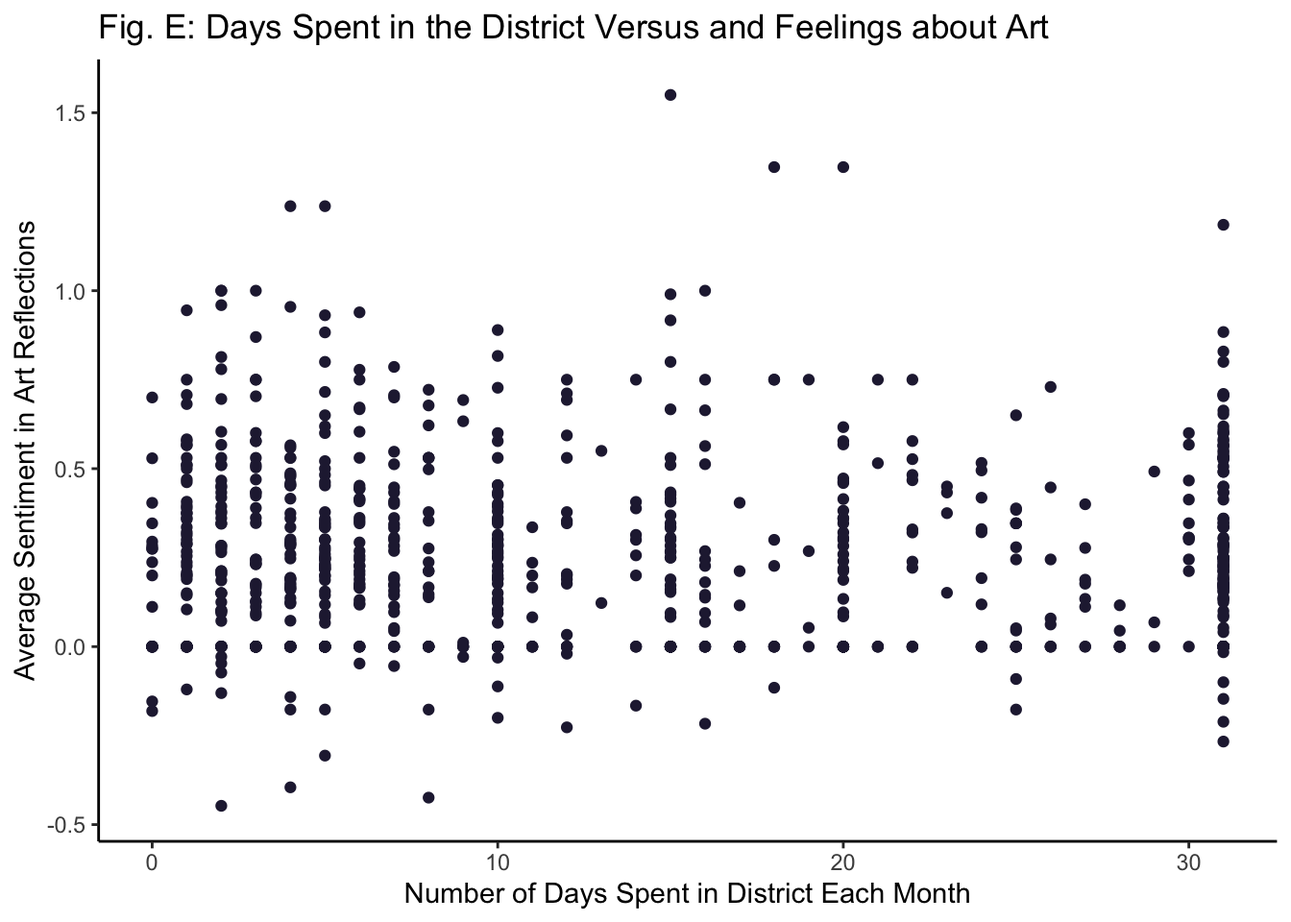
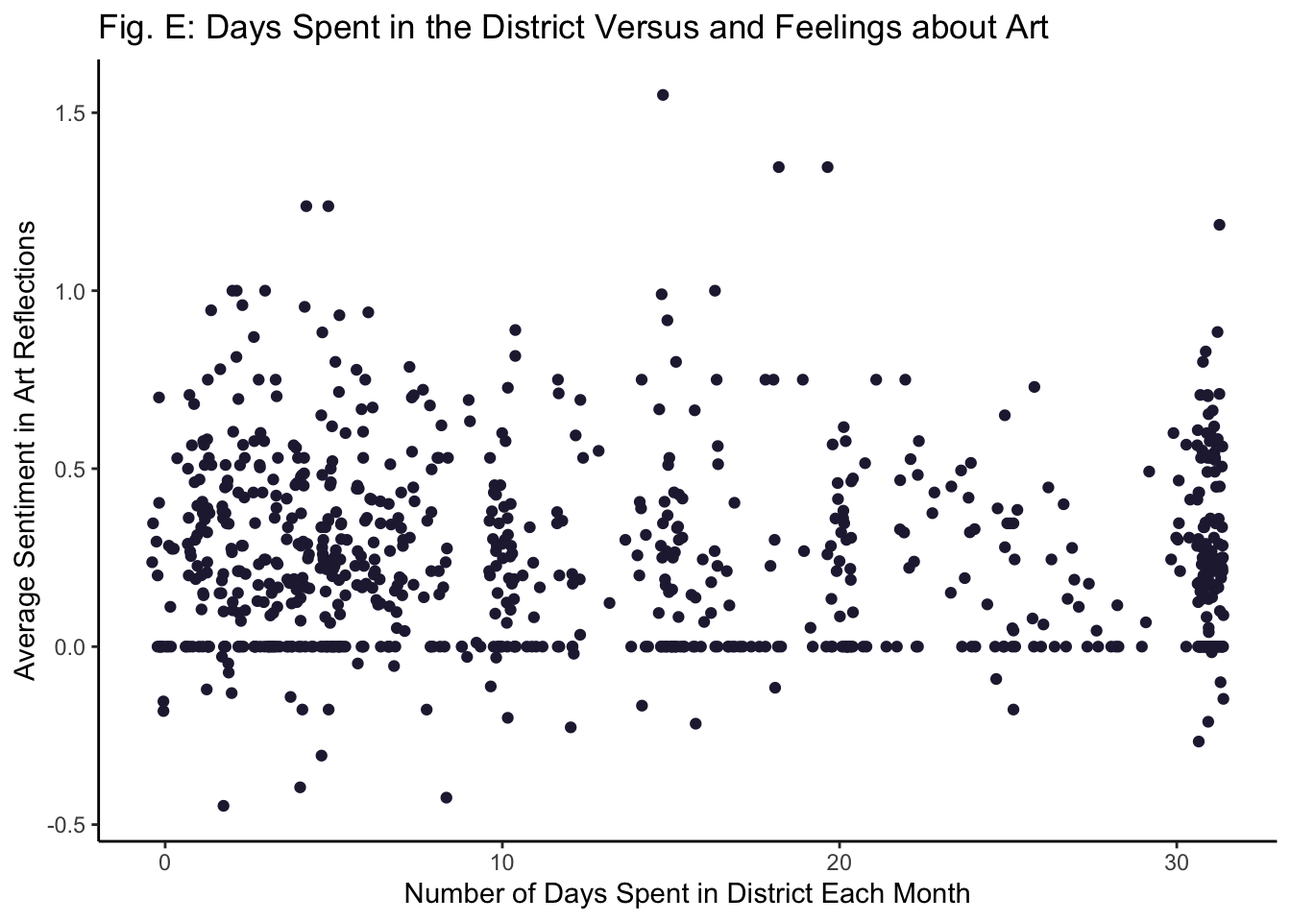
update website

diff --git a/docs/rrad_portfolio.html b/docs/rrad_portfolio.html
@@ -454,11 +454,12 @@ $(document).ready(function () {
 <span id="cb10-3"><a href="#cb10-3" aria-hidden="true" tabindex="-1"></a>  <span class="fu">theme_classic</span>() <span class="sc">+</span></span>
 <span id="cb10-4"><a href="#cb10-4" aria-hidden="true" tabindex="-1"></a>  <span class="fu">labs</span>(<span class="at">x =</span> <span class="st">&quot;Days Spent in the District&quot;</span>, <span class="at">y =</span> <span class="st">&quot;Number of Respondents&quot;</span>, <span class="at">title =</span> <span class="st">&quot;Fig. A: Days Spent in the District Each Month (N = 1081)&quot;</span>)</span></code></pre></div>
 <p><img src="rrad_portfolio_files/figure-html/unnamed-chunk-8-1.png" width="672" /></p>
-<p><em>Note: may need to transform due to non-normal distribution</em></p>
+<p><em>Majority of people spend less than 10 days in the district, however a substantial amount also spend every day in the district (these are likely the residents in the sample).</em></p>
 <p><br></p>
 <p><strong>Fig. B: What is Art to You? (n = 808)</strong></p>
-<div id="htmlwidget-b3c4ef9d3d10f5e39467" style="width:672px;height:480px;" class="wordcloud2 html-widget"></div>
-<script type="application/json" data-for="htmlwidget-b3c4ef9d3d10f5e39467">{"x":{"word":["art","expression","anything","creative","something","life","can","experience","way","created","community","form","creativity","self","makes","emotion","express","visual","music","human","someone","think","world","feel","culture","everything","create","people","artist","etc","murals","others","personal","’s","one","emotions","see","beauty","creation","thought","painting","like","beautiful","things","feeling","unique","person","medium","make","emotional","many","made","physical","forms","love","brings","different","creating","ideas","just","experiences","good","feelings","thoughts","senses","new","imagination","soul","whether","together","shared","public","live","allows","dance","sculpture","artists","mind","individual","tangible","mediums","means","another","passion","performance","communication","sense","part","paintings","media","variety","idea","subjective","connect","ones","skill","connection","also","cultural","enjoy","time","ability","words","around","important","work","creates","place","everyone","expressed","opportunity","enjoyment","shows","theater","provides","food","photography","arts","performing","whatever","communicate","aesthetic","ways","body","comes","kind","without","expressions","evokes","talent","building","word","representation","humanity","freedom","response","expressing","bring","joy","thing","perspective","either","making","much","definition","oneself","reflection","define","looking","someones","value","first","stop","design","roosevelt","gives","process","happiness","interpretation","eyes","expresses","spoken","space","craft","inspires","selfexpression","heart","existence","seen","meant","moves","reaction","speak","helps","thinking","typically","works","piece","act","nothing","meaning","viewer","group","artistic","architecture","don’t","seeing","friday","sound","view","designed","purpose","vision","anyone","really","including","audience","show","necessary","jewelry","various","provoking","relax","experienced","hear","story","creatively","answer","goes","now","mundane","paint","need","use","depth","invokes","interesting","fashion","humans","outlet","mental","evoke","perfect","may","essential","happy","bad","want","lot","engaging","opportunities","escape","everyday","creations","broad","pleasure","touch","drawing","speaks","moment","done","invoke","home","spaces","look","sensory","visually","poetry","diverse","intended","inspiration","beliefs","defined","action","language","always","question","well","manifestation","put","beyond","manifested","objects","needs","right","speaking","spirit","explore","appreciation","within","add","color","give","dancing","items","used","power","’m","sparks","able","challenges","surroundings","therapy","interest","stirs","else","expressive","fine","watercolor","exploration","statements","boundaries","entire","behind","take","inner","call","special","work’","free","going","high","local","especially","eclectic","understand","creator","statement","relate","film","includes","connects","definitely","mural","phoenix","eye","enjoying","types","row","pleasing","takes","inside","inspire","groups","differently","chance","stories","vulnerability","nice","beer","cocktails","minds","sharing","buy","emotionally","auditory","conversation","exists","galleries","entertaining","concept","consumption","intention","sort","level","sculpting","events","entertainment","communities","know","intent","reality","can’t","reflect","social","truly","imagery","clothes","personally","smile","stimulates","one’s","individuals","exchange","impact","abstract","change","universal","lives","since","provocative","engagement","growth","almost","intellectual","treasure","sustenance","material","nature","someone’s","capitalism","injustices","racism","true","will","affects","musical","written","sacred","provide","interests","appreciated","existing","challenging","spark","alone","dialogue","category","extension","highly","relatable","belonging","collaborative","deeper","interact","character","consciousness","however","paper","limits","stimulate","crap","decay","water","long","context","discussion","outward","attention","book","contributes","distinction","honest","proposal","thoughtprovoking","‘work’","learning","away","buying","favorite","festivals","method","lifestyle","stimulation","elses","movement","great","invites","culinary","artifacts","become","uses","development","celebration","consumed","importantly","meaningless","sculptures","traditional","usually","belief","politics","holiness","taste","back","exhibits","gardens","parks","reflects","taken","ears","consideration","sees","identity","idealized","personality","experiencing","overall","concerts","meet","painters","park","sale","street","venues","combined","city","promote","following","bringing","drawings","happenings","outside","prints","enriches","admire","vibes","installations","type","beholder","audio","physically","intriguing","collectively","accessible","inspired","describes","endeavors","contemporary","aesthetics","passions","performances","pieces","provoke","present","short","ever","issues","appreciate","’re","interpret","wrong","cultures","else’s","individual’s","engage","observer","sewing","enhances","history","upon","tap","individuality","provokes","survey","viewpoints","crafts","perception","hands","explain","wonder","folks","mentally","experiential","pretty","livelihood","communicates","spiritual","exist","still","economic","quality","topic","please","displays","lol","persons","goods","message","believe","graffiti","changes","bar","places","small","solely","specific","stress","condition","wants","technique","breadth","economy","restaurants","big","society","though","try","clothing","livens","waves","job","catalyst","concepts","conduit","empathy","sensitivity","argue","changing","constantly","difficult","evolving","colors","impossible","seem","stimulating","minded","impart","life’s","certain","trigger","zeitgeist","perceive","based","photos","america","apart","basquiats","continue","diaz","doc","feelingsemotionsstrugglesexperiences","focused","goal","late","loudly","misogyny","obligation","oppression","real","safe","said","spend","strife","tear","teen","times","voice","years","forgotten","expands","collaboration","deep","knowing","projects","enrich","visuals","old","recycling","application","focus","hope","primarily","producing","build","strong","previously","career","second","cave","respite","represent","beautifies","deeply","pleasant","notice","willing","collective","god","gods","humanitys","pleases","allowed","masses","goodwill","moving","offering","completely","describe","aspect","awareness","bearable","elevates","enables","evolution","expansive","perspectives","potential","raise","shift","acrylic","botanicals","adventure","excited","exploring","imagine","offers","main","occupation","read","richness","aquarium","basketballs","disgust","epitomy","floating","full","half","ideally","longwinded","nostril","powerful","races","reason","seriously","snapshot","talented","three","tired","whole","wld","audibly","profession","togetherness","dialog","induce","communicating","modality","appropriately","better","breathtaking","care","dated","deserves","deserving","discard","encourages","extraordinary","fact","glaser","inception","inundated","landscape","milton","modest","name","poster","pushes","remains","replace","rug","say","sidewalk","simple","stencil","title","ugly","unfortunately","zero","‘art’","‘bad","‘good","‘great","conditionexperience","activity","innovative","consign","network","participate","cathartic","accept","ceramic","failures","greatness","growing","highest","joys","everyone’s","exhibitsmuseumsgalleriesconcerts","female","methods","potteryfilmmusic","preferred","school","walked","went","projected","adventures","immerse","patterns","digesting","finding","views","visualized","encores","stimuli","struggle","boring","best","points","amazement","gifts","beautify","income","presented","simply","thoughtfulness","decent","probably","examine","influence","artwork","basic","discovery","manifests","principles","suitable","alley","ambience","drink","location","restaurantbar","served","walls","consumes","easel","films","games","kept","participation","plays","video","emotionality","collect","hiking","passionate","happened","intentional","beautification","sensual","capable","creatives","installation","visible","feels","memory","candy","grant","promoting","watching","writing","talents","artsmusic","teacher","theatre","elicits","inspiring","euphoric","stepping","desire","actions","elicit","intentionally","open","performedcomposeddeveloped","authentic","thinks","iife","purposes","sometimes","aesthetically","communal","enjoyed","conveyed","matter","viewerparticipant","little","showcases","contemplate","experimental","dives","five","loud","measure","triggers","interactivity","verb","figure","replication","strengths","trying","weaknesses","merry","stay","tension","available","blowing","classes","displaying","fairs","glass","meetups","onsite","outdoor","rent","rooms","sawdust","studio","studios","tours","“checkout”","lived","result","lifeblood","reactions","involvement","private","utilizing","constraints","art—paintings","association","collages","dances","indulging","insides","photographs","poems","songs","trust","outsider","pushing","relations","religion","encompassing","muralsstreet","terms","anothers","personarea","uniqueness","cosmos","showing","knitting","stitching","doesn’t","metaphorically","individually","addition","fixed","beaded","musically","appeal","graphic","installed","sorts","garbage","imho","pretentious","weathered","mostly","break","norm","desires","external","internal","buildings","sides","broadest","creationmaking","critical","lead","selfreflection","dazzles","applies","future","gripping","past","representative","wildly","transports","evidence","natural","mode","lens","person’s","huge","putting","final","product","appealing","personalized","varying","observeconsumeenjoy","cool","corporate","“person”","ads","curated","landscaping","light","metro’s","obvious","rail","valley","wraps","attractive","critiques","heal","ponder","questions","engages","honestly","grounds","photograph","wether","conceptions","puts","education","multiculturalism","invention","item","enjoyable","monetary","require","transaction","output","values","play","effort","repetition","practice","intersection","object","viewersparticipants","discover","mission","southwest","skills","coming","sight","muralspaintings","aligned","prefer","simplify","concert","interactive","peoples","connections","educate","hopefully","inform","depend","redefine","voices","content","teaches","communicative","non","acting","infusing","might","numbers","original","realize","“art","comedy","aspirations","channelling","odd","resonate","commodity","format","production","multiple","embrace","knowledge","streets","whispers","bookmaking","circus","literary","print","storytelling","zines","“art”","encultured","equally","extent","parts","meets","draws","pour","floor","mail","thrown","environment","temperament","pointing","symbols","plane","portraying","sensations","spirits","displayed","mindfully","sake","fulfilling","motivates","articles","homemade","abstractions","smell","reacts","censorship","minus","include","persuasion","activities","artworks","author’s","engaged","imaginative","performed","range","technical","museums","artlink","arts”","borders","fulfill","function","maybe","move","palatable","popular","promoted","studiofine","thru","uncomfortable","wall","“","“instagrammable”","“pretty”","test","withstood","networking","appreciating","choice","additional","adds","placed","teaching","tend","therapeutic","fully","propels","components","comprised","factors","historical","informed","felt","sensation","six","transformed","shares","decoration","dimension","fantastic","scupture","consumer","feeds","least","prove","reverence","spiritually","strength","actually","deliberately","desert","exhibition","grouping","happens","irrelevant","museum","path","rocks","side","deem","expensive","interested","mean","preservingsaving","valuable","worth","pause","strongly","subject","commercial","common","firms","homes","evoking","visceral","yet","surprising","flowing","fuel","keep","cloned","touches","state","discussed","grabs","heck","colorful","seasoning","causes","admiring","inventive","theatrical","vehicle","force","messaging","communicationetc","solid","members","money","pornography","staring","conveys","awe","intangible","produce","erase","let’s","welcome","mindset","magic","justice","guest","reading","speakers","talking","current","designs","stale","across","limitless","day","everywhere","found","throughout","apartment","chooses","corner","happen","installs","longer","pushed","salon","already","area","displace","families","gentrifying","increase","neighborhoods","rents","respecting","businesses","supporting","hobbies","cheap","condos","dollar","flooded","market","relieve","get","pace","regulate","point","analysis","political","daily","savor","showcase","participant","atmosphere","awesome","hearing","comport","intellect","causing","motion","emotive","head","viewers","routine","consumerviewer","pov","center","detroit","grew","verbal","skillset","masse","promotes","dewey’s","theory","ecosystems","godhead","man","premiere","revealed","urban","influences","explores","surrounds","convey","monetarily","exposing","extraction","innermost","stuff","yknow","visualauditorysensory","bars","dynamic","mid","replaced","services","shops","supports","observers","inspirational","among","fit","friends","often","therefore","general","numerous","vibe","fingernails","matters","flowers","trees","deemed","dancepainting","sculpturesmusicfilms","freeing","inward","even","thoughtsfeelings","connecting","tissue","watch","companies","locals","nonlarge","posters","meaningful","case","cases","access","ask","everyones","example","immersive","key","liked","never","manner","purposeful","holds","significant","share","via","today","combination","given","instruments","interpretations","lyrical","materials","uplifting","formats","respectfully","infinite","nearly","taking","viewpoint","threw","oversized","plants","“potted”","fun","bonds","spread","higher","intellectually","simulates","assholes","bunch","entitled","night","walking","challenge","constructed","reconstructed","support","telling","college","degree","instrumental","related","stupid","display","genuine","tell","template","prevention","primary","thriving","composing","cooking","turn","behold","delight","wife","beings","hard","worked","flare","list","table","array","abundance","blocks","circle","continents","covid","devastating","harsh","hence","immediate","keeps","lost","moments","realities","struggles","tells","multi","life—food","treatment","influenced","dreams"],"freq":[322,251,101,85,85,71,57,51,46,45,42,42,40,40,40,35,33,33,32,31,30,30,30,28,27,25,24,24,24,24,24,23,23,23,22,22,22,21,21,19,19,18,18,18,17,16,16,16,15,15,15,15,14,14,14,14,14,13,13,13,13,13,13,13,12,12,12,12,12,12,12,12,11,11,11,11,11,11,11,11,11,10,10,10,10,10,10,10,10,10,10,9,9,9,9,9,9,9,8,8,8,8,8,8,8,8,8,8,8,8,8,8,8,8,8,8,8,8,8,8,7,7,7,7,7,7,7,7,7,7,7,7,7,7,7,7,7,6,6,6,6,6,6,6,6,6,6,6,6,6,6,6,6,6,6,6,6,6,6,6,6,6,6,6,6,6,5,5,5,5,5,5,5,5,5,5,5,5,5,5,5,5,5,5,5,5,5,5,5,5,5,5,5,5,5,5,5,5,5,5,5,5,5,5,5,4,4,4,4,4,4,4,4,4,4,4,4,4,4,4,4,4,4,4,4,4,4,4,4,4,4,4,4,4,4,4,4,4,4,4,4,4,4,4,4,4,4,4,4,4,4,4,4,3,3,3,3,3,3,3,3,3,3,3,3,3,3,3,3,3,3,3,3,3,3,3,3,3,3,3,3,3,3,3,3,3,3,3,3,3,3,3,3,3,3,3,3,3,3,3,3,3,3,3,3,3,3,3,3,3,3,3,3,3,3,3,3,3,3,3,3,3,3,3,3,3,3,3,3,3,3,3,3,3,3,3,3,3,3,3,3,3,3,3,3,3,3,3,3,3,3,3,3,3,3,3,3,3,3,3,3,3,3,2,2,2,2,2,2,2,2,2,2,2,2,2,2,2,2,2,2,2,2,2,2,2,2,2,2,2,2,2,2,2,2,2,2,2,2,2,2,2,2,2,2,2,2,2,2,2,2,2,2,2,2,2,2,2,2,2,2,2,2,2,2,2,2,2,2,2,2,2,2,2,2,2,2,2,2,2,2,2,2,2,2,2,2,2,2,2,2,2,2,2,2,2,2,2,2,2,2,2,2,2,2,2,2,2,2,2,2,2,2,2,2,2,2,2,2,2,2,2,2,2,2,2,2,2,2,2,2,2,2,2,2,2,2,2,2,2,2,2,2,2,2,2,2,2,2,2,2,2,2,2,2,2,2,2,2,2,2,2,2,2,2,2,2,2,2,2,2,2,2,2,2,2,2,2,2,2,2,2,2,2,2,2,2,2,2,2,2,2,2,2,2,2,2,2,2,2,2,2,2,2,2,2,2,2,2,1,1,1,1,1,1,1,1,1,1,1,1,1,1,1,1,1,1,1,1,1,1,1,1,1,1,1,1,1,1,1,1,1,1,1,1,1,1,1,1,1,1,1,1,1,1,1,1,1,1,1,1,1,1,1,1,1,1,1,1,1,1,1,1,1,1,1,1,1,1,1,1,1,1,1,1,1,1,1,1,1,1,1,1,1,1,1,1,1,1,1,1,1,1,1,1,1,1,1,1,1,1,1,1,1,1,1,1,1,1,1,1,1,1,1,1,1,1,1,1,1,1,1,1,1,1,1,1,1,1,1,1,1,1,1,1,1,1,1,1,1,1,1,1,1,1,1,1,1,1,1,1,1,1,1,1,1,1,1,1,1,1,1,1,1,1,1,1,1,1,1,1,1,1,1,1,1,1,1,1,1,1,1,1,1,1,1,1,1,1,1,1,1,1,1,1,1,1,1,1,1,1,1,1,1,1,1,1,1,1,1,1,1,1,1,1,1,1,1,1,1,1,1,1,1,1,1,1,1,1,1,1,1,1,1,1,1,1,1,1,1,1,1,1,1,1,1,1,1,1,1,1,1,1,1,1,1,1,1,1,1,1,1,1,1,1,1,1,1,1,1,1,1,1,1,1,1,1,1,1,1,1,1,1,1,1,1,1,1,1,1,1,1,1,1,1,1,1,1,1,1,1,1,1,1,1,1,1,1,1,1,1,1,1,1,1,1,1,1,1,1,1,1,1,1,1,1,1,1,1,1,1,1,1,1,1,1,1,1,1,1,1,1,1,1,1,1,1,1,1,1,1,1,1,1,1,1,1,1,1,1,1,1,1,1,1,1,1,1,1,1,1,1,1,1,1,1,1,1,1,1,1,1,1,1,1,1,1,1,1,1,1,1,1,1,1,1,1,1,1,1,1,1,1,1,1,1,1,1,1,1,1,1,1,1,1,1,1,1,1,1,1,1,1,1,1,1,1,1,1,1,1,1,1,1,1,1,1,1,1,1,1,1,1,1,1,1,1,1,1,1,1,1,1,1,1,1,1,1,1,1,1,1,1,1,1,1,1,1,1,1,1,1,1,1,1,1,1,1,1,1,1,1,1,1,1,1,1,1,1,1,1,1,1,1,1,1,1,1,1,1,1,1,1,1,1,1,1,1,1,1,1,1,1,1,1,1,1,1,1,1,1,1,1,1,1,1,1,1,1,1,1,1,1,1,1,1,1,1,1,1,1,1,1,1,1,1,1,1,1,1,1,1,1,1,1,1,1,1,1,1,1,1,1,1,1,1,1,1,1,1,1,1,1,1,1,1,1,1,1,1,1,1,1,1,1,1,1,1,1,1,1,1,1,1,1,1,1,1,1,1,1,1,1,1,1,1,1,1,1,1,1,1,1,1,1,1,1,1,1,1,1,1,1,1,1,1,1,1,1,1,1,1,1,1,1,1,1,1,1,1,1,1,1,1,1,1,1,1,1,1,1,1,1,1,1,1,1,1,1,1,1,1,1,1,1,1,1,1,1,1,1,1,1,1,1,1,1,1,1,1,1,1,1,1,1,1,1,1,1,1,1,1,1,1,1,1,1,1,1,1,1,1,1,1,1,1,1,1,1,1,1,1,1,1,1,1,1,1,1,1,1,1,1,1,1,1,1,1,1,1,1,1,1,1,1,1,1,1,1,1,1,1,1,1,1,1,1,1,1,1,1,1,1,1,1,1,1,1,1,1,1,1,1,1,1,1,1,1,1,1,1,1,1,1,1,1,1,1,1,1,1,1,1,1,1,1,1,1,1,1,1,1,1,1,1,1,1,1,1,1,1,1,1,1,1,1,1,1,1,1,1,1,1,1,1,1,1,1,1,1,1,1,1,1,1,1,1,1,1,1,1,1,1,1,1,1,1,1,1,1,1,1,1,1,1,1,1,1,1,1,1,1,1,1,1,1,1,1,1,1,1,1,1,1,1,1,1,1],"fontFamily":"Segoe UI","fontWeight":"bold","color":"#26213F","minSize":0,"weightFactor":0.894409937888199,"backgroundColor":"white","gridSize":0,"minRotation":-0.785398163397448,"maxRotation":0.785398163397448,"shuffle":true,"rotateRatio":0.4,"shape":"circle","ellipticity":0.65,"figBase64":null,"hover":null},"evals":[],"jsHooks":{"render":[{"code":"function(el,x){\n                        console.log(123);\n                        if(!iii){\n                          window.location.reload();\n                          iii = False;\n\n                        }\n  }","data":null}]}}</script>
+<div id="htmlwidget-cf3b3fda31d26672c42a" style="width:672px;height:480px;" class="wordcloud2 html-widget"></div>
+<script type="application/json" data-for="htmlwidget-cf3b3fda31d26672c42a">{"x":{"word":["art","expression","anything","creative","something","life","can","experience","way","created","community","form","creativity","self","makes","emotion","express","visual","music","human","someone","think","world","feel","culture","everything","create","people","artist","etc","murals","others","personal","’s","one","emotions","see","beauty","creation","thought","painting","like","beautiful","things","feeling","unique","person","medium","make","emotional","many","made","physical","forms","love","brings","different","creating","ideas","just","experiences","good","feelings","thoughts","senses","new","imagination","soul","whether","together","shared","public","live","allows","dance","sculpture","artists","mind","individual","tangible","mediums","means","another","passion","performance","communication","sense","part","paintings","media","variety","idea","subjective","connect","ones","skill","connection","also","cultural","enjoy","time","ability","words","around","important","work","creates","place","everyone","expressed","opportunity","enjoyment","shows","theater","provides","food","photography","arts","performing","whatever","communicate","aesthetic","ways","body","comes","kind","without","expressions","evokes","talent","building","word","representation","humanity","freedom","response","expressing","bring","joy","thing","perspective","either","making","much","definition","oneself","reflection","define","looking","someones","value","first","stop","design","roosevelt","gives","process","happiness","interpretation","eyes","expresses","spoken","space","craft","inspires","selfexpression","heart","existence","seen","meant","moves","reaction","speak","helps","thinking","typically","works","piece","act","nothing","meaning","viewer","group","artistic","architecture","don’t","seeing","friday","sound","view","designed","purpose","vision","anyone","really","including","audience","show","necessary","jewelry","various","provoking","relax","experienced","hear","story","creatively","answer","goes","now","mundane","paint","need","use","depth","invokes","interesting","fashion","humans","outlet","mental","evoke","perfect","may","essential","happy","bad","want","lot","engaging","opportunities","escape","everyday","creations","broad","pleasure","touch","drawing","speaks","moment","done","invoke","home","spaces","look","sensory","visually","poetry","diverse","intended","inspiration","beliefs","defined","action","language","always","question","well","manifestation","put","beyond","manifested","objects","needs","right","speaking","spirit","explore","appreciation","within","add","color","give","dancing","items","used","power","’m","sparks","able","challenges","surroundings","therapy","interest","stirs","else","expressive","fine","watercolor","exploration","statements","boundaries","entire","behind","take","inner","call","special","work’","free","going","high","local","especially","eclectic","understand","creator","statement","relate","film","includes","connects","definitely","mural","phoenix","eye","enjoying","types","row","pleasing","takes","inside","inspire","groups","differently","chance","stories","vulnerability","nice","beer","cocktails","minds","sharing","buy","emotionally","auditory","conversation","exists","galleries","entertaining","concept","consumption","intention","sort","level","sculpting","events","entertainment","communities","know","intent","reality","can’t","reflect","social","truly","imagery","clothes","personally","smile","stimulates","one’s","individuals","exchange","impact","abstract","change","universal","lives","since","provocative","engagement","growth","almost","intellectual","treasure","sustenance","material","nature","someone’s","capitalism","injustices","racism","true","will","affects","musical","written","sacred","provide","interests","appreciated","existing","challenging","spark","alone","dialogue","category","extension","highly","relatable","belonging","collaborative","deeper","interact","character","consciousness","however","paper","limits","stimulate","crap","decay","water","long","context","discussion","outward","attention","book","contributes","distinction","honest","proposal","thoughtprovoking","‘work’","learning","away","buying","favorite","festivals","method","lifestyle","stimulation","elses","movement","great","invites","culinary","artifacts","become","uses","development","celebration","consumed","importantly","meaningless","sculptures","traditional","usually","belief","politics","holiness","taste","back","exhibits","gardens","parks","reflects","taken","ears","consideration","sees","identity","idealized","personality","experiencing","overall","concerts","meet","painters","park","sale","street","venues","combined","city","promote","following","bringing","drawings","happenings","outside","prints","enriches","admire","vibes","installations","type","beholder","audio","physically","intriguing","collectively","accessible","inspired","describes","endeavors","contemporary","aesthetics","passions","performances","pieces","provoke","present","short","ever","issues","appreciate","’re","interpret","wrong","cultures","else’s","individual’s","engage","observer","sewing","enhances","history","upon","tap","individuality","provokes","survey","viewpoints","crafts","perception","hands","explain","wonder","folks","mentally","experiential","pretty","livelihood","communicates","spiritual","exist","still","economic","quality","topic","please","displays","lol","persons","goods","message","believe","graffiti","changes","bar","places","small","solely","specific","stress","condition","wants","technique","breadth","economy","restaurants","big","society","though","try","clothing","livens","waves","job","catalyst","concepts","conduit","empathy","sensitivity","argue","changing","constantly","difficult","evolving","colors","impossible","seem","stimulating","minded","impart","life’s","certain","trigger","zeitgeist","perceive","based","photos","america","apart","basquiats","continue","diaz","doc","feelingsemotionsstrugglesexperiences","focused","goal","late","loudly","misogyny","obligation","oppression","real","safe","said","spend","strife","tear","teen","times","voice","years","forgotten","expands","collaboration","deep","knowing","projects","enrich","visuals","old","recycling","application","focus","hope","primarily","producing","build","strong","previously","career","second","cave","respite","represent","beautifies","deeply","pleasant","notice","willing","collective","god","gods","humanitys","pleases","allowed","masses","goodwill","moving","offering","completely","describe","aspect","awareness","bearable","elevates","enables","evolution","expansive","perspectives","potential","raise","shift","acrylic","botanicals","adventure","excited","exploring","imagine","offers","main","occupation","read","richness","aquarium","basketballs","disgust","epitomy","floating","full","half","ideally","longwinded","nostril","powerful","races","reason","seriously","snapshot","talented","three","tired","whole","wld","audibly","profession","togetherness","dialog","induce","communicating","modality","appropriately","better","breathtaking","care","dated","deserves","deserving","discard","encourages","extraordinary","fact","glaser","inception","inundated","landscape","milton","modest","name","poster","pushes","remains","replace","rug","say","sidewalk","simple","stencil","title","ugly","unfortunately","zero","‘art’","‘bad","‘good","‘great","conditionexperience","activity","innovative","consign","network","participate","cathartic","accept","ceramic","failures","greatness","growing","highest","joys","everyone’s","exhibitsmuseumsgalleriesconcerts","female","methods","potteryfilmmusic","preferred","school","walked","went","projected","adventures","immerse","patterns","digesting","finding","views","visualized","encores","stimuli","struggle","boring","best","points","amazement","gifts","beautify","income","presented","simply","thoughtfulness","decent","probably","examine","influence","artwork","basic","discovery","manifests","principles","suitable","alley","ambience","drink","location","restaurantbar","served","walls","consumes","easel","films","games","kept","participation","plays","video","emotionality","collect","hiking","passionate","happened","intentional","beautification","sensual","capable","creatives","installation","visible","feels","memory","candy","grant","promoting","watching","writing","talents","artsmusic","teacher","theatre","elicits","inspiring","euphoric","stepping","desire","actions","elicit","intentionally","open","performedcomposeddeveloped","authentic","thinks","iife","purposes","sometimes","aesthetically","communal","enjoyed","conveyed","matter","viewerparticipant","little","showcases","contemplate","experimental","dives","five","loud","measure","triggers","interactivity","verb","figure","replication","strengths","trying","weaknesses","merry","stay","tension","available","blowing","classes","displaying","fairs","glass","meetups","onsite","outdoor","rent","rooms","sawdust","studio","studios","tours","“checkout”","lived","result","lifeblood","reactions","involvement","private","utilizing","constraints","art—paintings","association","collages","dances","indulging","insides","photographs","poems","songs","trust","outsider","pushing","relations","religion","encompassing","muralsstreet","terms","anothers","personarea","uniqueness","cosmos","showing","knitting","stitching","doesn’t","metaphorically","individually","addition","fixed","beaded","musically","appeal","graphic","installed","sorts","garbage","imho","pretentious","weathered","mostly","break","norm","desires","external","internal","buildings","sides","broadest","creationmaking","critical","lead","selfreflection","dazzles","applies","future","gripping","past","representative","wildly","transports","evidence","natural","mode","lens","person’s","huge","putting","final","product","appealing","personalized","varying","observeconsumeenjoy","cool","corporate","“person”","ads","curated","landscaping","light","metro’s","obvious","rail","valley","wraps","attractive","critiques","heal","ponder","questions","engages","honestly","grounds","photograph","wether","conceptions","puts","education","multiculturalism","invention","item","enjoyable","monetary","require","transaction","output","values","play","effort","repetition","practice","intersection","object","viewersparticipants","discover","mission","southwest","skills","coming","sight","muralspaintings","aligned","prefer","simplify","concert","interactive","peoples","connections","educate","hopefully","inform","depend","redefine","voices","content","teaches","communicative","non","acting","infusing","might","numbers","original","realize","“art","comedy","aspirations","channelling","odd","resonate","commodity","format","production","multiple","embrace","knowledge","streets","whispers","bookmaking","circus","literary","print","storytelling","zines","“art”","encultured","equally","extent","parts","meets","draws","pour","floor","mail","thrown","environment","temperament","pointing","symbols","plane","portraying","sensations","spirits","displayed","mindfully","sake","fulfilling","motivates","articles","homemade","abstractions","smell","reacts","censorship","minus","include","persuasion","activities","artworks","author’s","engaged","imaginative","performed","range","technical","museums","artlink","arts”","borders","fulfill","function","maybe","move","palatable","popular","promoted","studiofine","thru","uncomfortable","wall","“","“instagrammable”","“pretty”","test","withstood","networking","appreciating","choice","additional","adds","placed","teaching","tend","therapeutic","fully","propels","components","comprised","factors","historical","informed","felt","sensation","six","transformed","shares","decoration","dimension","fantastic","scupture","consumer","feeds","least","prove","reverence","spiritually","strength","actually","deliberately","desert","exhibition","grouping","happens","irrelevant","museum","path","rocks","side","deem","expensive","interested","mean","preservingsaving","valuable","worth","pause","strongly","subject","commercial","common","firms","homes","evoking","visceral","yet","surprising","flowing","fuel","keep","cloned","touches","state","discussed","grabs","heck","colorful","seasoning","causes","admiring","inventive","theatrical","vehicle","force","messaging","communicationetc","solid","members","money","pornography","staring","conveys","awe","intangible","produce","erase","let’s","welcome","mindset","magic","justice","guest","reading","speakers","talking","current","designs","stale","across","limitless","day","everywhere","found","throughout","apartment","chooses","corner","happen","installs","longer","pushed","salon","already","area","displace","families","gentrifying","increase","neighborhoods","rents","respecting","businesses","supporting","hobbies","cheap","condos","dollar","flooded","market","relieve","get","pace","regulate","point","analysis","political","daily","savor","showcase","participant","atmosphere","awesome","hearing","comport","intellect","causing","motion","emotive","head","viewers","routine","consumerviewer","pov","center","detroit","grew","verbal","skillset","masse","promotes","dewey’s","theory","ecosystems","godhead","man","premiere","revealed","urban","influences","explores","surrounds","convey","monetarily","exposing","extraction","innermost","stuff","yknow","visualauditorysensory","bars","dynamic","mid","replaced","services","shops","supports","observers","inspirational","among","fit","friends","often","therefore","general","numerous","vibe","fingernails","matters","flowers","trees","deemed","dancepainting","sculpturesmusicfilms","freeing","inward","even","thoughtsfeelings","connecting","tissue","watch","companies","locals","nonlarge","posters","meaningful","case","cases","access","ask","everyones","example","immersive","key","liked","never","manner","purposeful","holds","significant","share","via","today","combination","given","instruments","interpretations","lyrical","materials","uplifting","formats","respectfully","infinite","nearly","taking","viewpoint","threw","oversized","plants","“potted”","fun","bonds","spread","higher","intellectually","simulates","assholes","bunch","entitled","night","walking","challenge","constructed","reconstructed","support","telling","college","degree","instrumental","related","stupid","display","genuine","tell","template","prevention","primary","thriving","composing","cooking","turn","behold","delight","wife","beings","hard","worked","flare","list","table","array","abundance","blocks","circle","continents","covid","devastating","harsh","hence","immediate","keeps","lost","moments","realities","struggles","tells","multi","life—food","treatment","influenced","dreams"],"freq":[322,251,101,85,85,71,57,51,46,45,42,42,40,40,40,35,33,33,32,31,30,30,30,28,27,25,24,24,24,24,24,23,23,23,22,22,22,21,21,19,19,18,18,18,17,16,16,16,15,15,15,15,14,14,14,14,14,13,13,13,13,13,13,13,12,12,12,12,12,12,12,12,11,11,11,11,11,11,11,11,11,10,10,10,10,10,10,10,10,10,10,9,9,9,9,9,9,9,8,8,8,8,8,8,8,8,8,8,8,8,8,8,8,8,8,8,8,8,8,8,7,7,7,7,7,7,7,7,7,7,7,7,7,7,7,7,7,6,6,6,6,6,6,6,6,6,6,6,6,6,6,6,6,6,6,6,6,6,6,6,6,6,6,6,6,6,5,5,5,5,5,5,5,5,5,5,5,5,5,5,5,5,5,5,5,5,5,5,5,5,5,5,5,5,5,5,5,5,5,5,5,5,5,5,5,4,4,4,4,4,4,4,4,4,4,4,4,4,4,4,4,4,4,4,4,4,4,4,4,4,4,4,4,4,4,4,4,4,4,4,4,4,4,4,4,4,4,4,4,4,4,4,4,3,3,3,3,3,3,3,3,3,3,3,3,3,3,3,3,3,3,3,3,3,3,3,3,3,3,3,3,3,3,3,3,3,3,3,3,3,3,3,3,3,3,3,3,3,3,3,3,3,3,3,3,3,3,3,3,3,3,3,3,3,3,3,3,3,3,3,3,3,3,3,3,3,3,3,3,3,3,3,3,3,3,3,3,3,3,3,3,3,3,3,3,3,3,3,3,3,3,3,3,3,3,3,3,3,3,3,3,3,3,2,2,2,2,2,2,2,2,2,2,2,2,2,2,2,2,2,2,2,2,2,2,2,2,2,2,2,2,2,2,2,2,2,2,2,2,2,2,2,2,2,2,2,2,2,2,2,2,2,2,2,2,2,2,2,2,2,2,2,2,2,2,2,2,2,2,2,2,2,2,2,2,2,2,2,2,2,2,2,2,2,2,2,2,2,2,2,2,2,2,2,2,2,2,2,2,2,2,2,2,2,2,2,2,2,2,2,2,2,2,2,2,2,2,2,2,2,2,2,2,2,2,2,2,2,2,2,2,2,2,2,2,2,2,2,2,2,2,2,2,2,2,2,2,2,2,2,2,2,2,2,2,2,2,2,2,2,2,2,2,2,2,2,2,2,2,2,2,2,2,2,2,2,2,2,2,2,2,2,2,2,2,2,2,2,2,2,2,2,2,2,2,2,2,2,2,2,2,2,2,2,2,2,2,2,2,1,1,1,1,1,1,1,1,1,1,1,1,1,1,1,1,1,1,1,1,1,1,1,1,1,1,1,1,1,1,1,1,1,1,1,1,1,1,1,1,1,1,1,1,1,1,1,1,1,1,1,1,1,1,1,1,1,1,1,1,1,1,1,1,1,1,1,1,1,1,1,1,1,1,1,1,1,1,1,1,1,1,1,1,1,1,1,1,1,1,1,1,1,1,1,1,1,1,1,1,1,1,1,1,1,1,1,1,1,1,1,1,1,1,1,1,1,1,1,1,1,1,1,1,1,1,1,1,1,1,1,1,1,1,1,1,1,1,1,1,1,1,1,1,1,1,1,1,1,1,1,1,1,1,1,1,1,1,1,1,1,1,1,1,1,1,1,1,1,1,1,1,1,1,1,1,1,1,1,1,1,1,1,1,1,1,1,1,1,1,1,1,1,1,1,1,1,1,1,1,1,1,1,1,1,1,1,1,1,1,1,1,1,1,1,1,1,1,1,1,1,1,1,1,1,1,1,1,1,1,1,1,1,1,1,1,1,1,1,1,1,1,1,1,1,1,1,1,1,1,1,1,1,1,1,1,1,1,1,1,1,1,1,1,1,1,1,1,1,1,1,1,1,1,1,1,1,1,1,1,1,1,1,1,1,1,1,1,1,1,1,1,1,1,1,1,1,1,1,1,1,1,1,1,1,1,1,1,1,1,1,1,1,1,1,1,1,1,1,1,1,1,1,1,1,1,1,1,1,1,1,1,1,1,1,1,1,1,1,1,1,1,1,1,1,1,1,1,1,1,1,1,1,1,1,1,1,1,1,1,1,1,1,1,1,1,1,1,1,1,1,1,1,1,1,1,1,1,1,1,1,1,1,1,1,1,1,1,1,1,1,1,1,1,1,1,1,1,1,1,1,1,1,1,1,1,1,1,1,1,1,1,1,1,1,1,1,1,1,1,1,1,1,1,1,1,1,1,1,1,1,1,1,1,1,1,1,1,1,1,1,1,1,1,1,1,1,1,1,1,1,1,1,1,1,1,1,1,1,1,1,1,1,1,1,1,1,1,1,1,1,1,1,1,1,1,1,1,1,1,1,1,1,1,1,1,1,1,1,1,1,1,1,1,1,1,1,1,1,1,1,1,1,1,1,1,1,1,1,1,1,1,1,1,1,1,1,1,1,1,1,1,1,1,1,1,1,1,1,1,1,1,1,1,1,1,1,1,1,1,1,1,1,1,1,1,1,1,1,1,1,1,1,1,1,1,1,1,1,1,1,1,1,1,1,1,1,1,1,1,1,1,1,1,1,1,1,1,1,1,1,1,1,1,1,1,1,1,1,1,1,1,1,1,1,1,1,1,1,1,1,1,1,1,1,1,1,1,1,1,1,1,1,1,1,1,1,1,1,1,1,1,1,1,1,1,1,1,1,1,1,1,1,1,1,1,1,1,1,1,1,1,1,1,1,1,1,1,1,1,1,1,1,1,1,1,1,1,1,1,1,1,1,1,1,1,1,1,1,1,1,1,1,1,1,1,1,1,1,1,1,1,1,1,1,1,1,1,1,1,1,1,1,1,1,1,1,1,1,1,1,1,1,1,1,1,1,1,1,1,1,1,1,1,1,1,1,1,1,1,1,1,1,1,1,1,1,1,1,1,1,1,1,1,1,1,1,1,1,1,1,1,1,1,1,1,1,1,1,1,1,1,1,1,1,1,1,1,1,1,1,1,1,1,1,1,1,1,1,1,1,1,1,1,1,1,1,1,1,1,1,1,1,1,1,1,1,1,1,1,1,1,1,1,1,1,1,1,1,1,1,1,1,1,1,1,1,1,1,1,1,1,1,1,1,1,1,1,1,1,1,1,1,1,1,1,1,1,1,1,1,1,1,1,1,1,1,1,1,1,1,1,1,1,1,1,1,1,1,1,1,1,1,1,1,1,1,1,1,1,1,1,1,1,1,1,1,1,1],"fontFamily":"Segoe UI","fontWeight":"bold","color":"#26213F","minSize":0,"weightFactor":0.894409937888199,"backgroundColor":"white","gridSize":0,"minRotation":-0.785398163397448,"maxRotation":0.785398163397448,"shuffle":true,"rotateRatio":0.4,"shape":"circle","ellipticity":0.65,"figBase64":null,"hover":null},"evals":[],"jsHooks":{"render":[{"code":"function(el,x){\n                        console.log(123);\n                        if(!iii){\n                          window.location.reload();\n                          iii = False;\n\n                        }\n  }","data":null}]}}</script>
+<p><em>On the whole, the respondents perceive art as being creative, involving the senses, a form of self-expression. Many people noted that art could be anything, or something that elicits a feeling.</em></p>
 <p><br></p>
 </div>
 <div id="sentiment-analysis" class="section level2">
@@ -475,7 +476,7 @@ $(document).ready(function () {
 <span id="cb13-3"><a href="#cb13-3" aria-hidden="true" tabindex="-1"></a>  <span class="fu">theme_classic</span>() <span class="sc">+</span></span>
 <span id="cb13-4"><a href="#cb13-4" aria-hidden="true" tabindex="-1"></a>  <span class="fu">labs</span>(<span class="at">x =</span> <span class="st">&quot;Average Sentiment&quot;</span>, <span class="at">y =</span> <span class="st">&quot;Number of Respondents&quot;</span>, <span class="at">title =</span> <span class="st">&quot;Fig. C: Sentiment Present in &#39;What is Art to You&#39; Responses (n = 808)&quot;</span>)</span></code></pre></div>
 <p><img src="rrad_portfolio_files/figure-html/unnamed-chunk-22-1.png" width="672" /></p>
-<p><em>Highly skewed - Many responses contained zero sentiment, with remaining appearing to be mostly positive.</em> <em>Note: 0 = no sentiment, &gt;0 = positive sentiment, &lt;0 = negative sentiment.</em></p>
+<p><em>Highly skewed - Many responses contained zero sentiment, with remaining appearing to be mostly positive.</em> <em>Note: 0.0 = no sentiment, &gt;0.0 = positive sentiment, &lt;0.0 = negative sentiment.</em></p>
 <p>Explore summary statistics for average sentiment variable:</p>
 <div class="sourceCode" id="cb14"><pre class="sourceCode r"><code class="sourceCode r"><span id="cb14-1"><a href="#cb14-1" aria-hidden="true" tabindex="-1"></a><span class="fu">summary</span>(rrad_data<span class="sc">$</span>ave_sentiment)</span></code></pre></div>
 <pre><code>##    Min. 1st Qu.  Median    Mean 3rd Qu.    Max. 
@@ -509,16 +510,16 @@ $(document).ready(function () {
 <p><em>Not noticeably different from whole sample.</em></p>
 <p>Visualize relationship between days spent in the district and sentiment in ‘What is Art to You’ responses:</p>
 <div class="sourceCode" id="cb20"><pre class="sourceCode r"><code class="sourceCode r"><span id="cb20-1"><a href="#cb20-1" aria-hidden="true" tabindex="-1"></a><span class="fu">ggplot</span>(rrad_data, <span class="fu">aes</span>(days_spent_here_month, ave_sentiment)) <span class="sc">+</span></span>
-<span id="cb20-2"><a href="#cb20-2" aria-hidden="true" tabindex="-1"></a>  <span class="fu">geom_point</span>(<span class="at">color =</span> <span class="st">&#39;#26213F&#39;</span>) <span class="sc">+</span></span>
+<span id="cb20-2"><a href="#cb20-2" aria-hidden="true" tabindex="-1"></a>  <span class="fu">geom_jitter</span>(<span class="at">color =</span> <span class="st">&#39;#26213F&#39;</span>) <span class="sc">+</span></span>
 <span id="cb20-3"><a href="#cb20-3" aria-hidden="true" tabindex="-1"></a>  <span class="fu">theme_classic</span>() <span class="sc">+</span> </span>
 <span id="cb20-4"><a href="#cb20-4" aria-hidden="true" tabindex="-1"></a>  <span class="fu">labs</span>(<span class="at">title =</span> <span class="st">&quot;Fig. E: Days Spent in the District Versus and Feelings about Art&quot;</span>, <span class="at">x =</span> <span class="st">&quot;Number of Days Spent in District Each Month&quot;</span>, <span class="at">y =</span> <span class="st">&quot;Average Sentiment in Art Reflections&quot;</span>)</span></code></pre></div>
 <p><img src="rrad_portfolio_files/figure-html/unnamed-chunk-27-1.png" width="672" /></p>
-<p><em>Based on this graph, there does not appear to be a relationship between days spent in the district and average sentiment in individuals’ reflections of what art is to them.</em></p>
+<p><em>Based on this scatter plot, there does not appear to be a strong relationship between days spent in the district and average sentiment in individuals’ reflections of what art is to them. However, we do see more instances of negative sentiment in the responses of individuals who spend 10 days or less in the district a month compared to those who spend more than 10 days in the district each month.</em></p>
 <p><br><br></p>
 </div>
 <div id="spearman-rho-correlation" class="section level3">
 <h3>Spearman Rho Correlation</h3>
-<p>The figures above demonstrate non-linearity, a high level of skewness in both variables, and potential outliers in the average sentiment variable. As such, I will use the Spearman rho correlation as it is robust against outliers and high skew. However, based on Figure D., I am not expecting a significant correlation.</p>
+<p>The figures above demonstrate non-linearity, a high level of skewness in both variables, and potential outliers in the average sentiment variable. As such, I will use the Spearman rho correlation as it is robust against outliers and high skew. However, based on Figure E., I am not expecting a significant correlation.</p>
 <p>Run the Spearman Rho Correlation Test</p>
 <div class="sourceCode" id="cb21"><pre class="sourceCode r"><code class="sourceCode r"><span id="cb21-1"><a href="#cb21-1" aria-hidden="true" tabindex="-1"></a><span class="fu">cor.test</span>(rrad_data<span class="sc">$</span>days_spent_here_month, rrad_data<span class="sc">$</span>ave_sentiment, <span class="at">method =</span> <span class="st">&#39;spearman&#39;</span>, <span class="at">exact =</span> <span class="cn">FALSE</span>)</span></code></pre></div>
 <pre><code>## 
@@ -539,7 +540,7 @@ $(document).ready(function () {
 <p>The original thought process was that the more days individuals spend in the arts district, the more positive sentiment there would be in their reflections of what art is to them. The results demonstrate that the number of days spent in the district appears to be unrelated to how respondents feel about art (per the sentiment in their reflections). A few considerations follow:</p>
 <ul>
 <li><p>Perhaps, the majority of people spend time in the district for other types of reasons (e.g., restaurants, night life).</p></li>
-<li><p>The vast majority of responses to the ‘What is Art to You’ question contained 0 sentiment. The nature of this question could be one reason why there was no evidence of a relationship between the number of days spent in the district and sentiment. Specifically, we did not ask respondents how they feel about art, but rather what it means to them. Perhaps if worded differently, there might have been a greater presence of sentiment.</p></li>
+<li><p>The vast majority of responses to the ‘What is Art to You’ question contained 0 or positive sentiment. The nature of this question could be one reason why there was no evidence of a relationship between the number of days spent in the district and sentiment. Specifically, we did not ask respondents how they feel about art, but rather what it means to them. Perhaps if worded differently, there might have been a greater presence of sentiment.</p></li>
 <li><p>Selection bias is likely at play - people who completed this survey care about the district and likely already hold positive or neutral feelings about art. Also, it could be that people in general don’t hold negative feelings toward art.</p></li>
 </ul>
 <p><br><br></p>
@@ -569,7 +570,6 @@ $(document).ready(function () {
 ## other attached packages:
 ## [1] tidyr_1.1.3      tidytext_0.3.1   sentimentr_2.7.1 wordcloud2_0.2.1
 ## [5] tm_0.7-8         NLP_0.2-1        ggplot2_3.3.3    dplyr_1.0.6     
-## [9] knitr_1.33      
 ## 
 ## loaded via a namespace (and not attached):
 ##  [1] textshape_1.7.3   tidyselect_1.1.1  xfun_0.23         slam_0.1-48      
@@ -579,13 +579,13 @@ $(document).ready(function () {
 ## [17] textclean_0.9.3   glue_1.4.2        withr_2.4.2       lexicon_1.2.1    
 ## [21] lifecycle_1.0.0   stringr_1.4.0     munsell_0.5.0     gtable_0.3.0     
 ## [25] htmlwidgets_1.5.3 evaluate_0.14     labeling_0.4.2    qdapRegex_0.7.2  
-## [29] parallel_4.1.0    fansi_0.5.0       highr_0.9         tokenizers_0.2.1 
-## [33] Rcpp_1.0.6        scales_1.1.1      jsonlite_1.7.2    farver_2.1.0     
-## [37] digest_0.6.27     stringi_1.6.2     grid_4.1.0        cli_2.5.0        
-## [41] tools_4.1.0       magrittr_2.0.1    tibble_3.1.2      janeaustenr_0.1.5
-## [45] crayon_1.4.1      pkgconfig_2.0.3   ellipsis_0.3.2    Matrix_1.3-3     
-## [49] data.table_1.14.0 xml2_1.3.2        rmarkdown_2.8     R6_2.5.0         
-## [53] compiler_4.1.0</code></pre>
+## [29] knitr_1.33        parallel_4.1.0    fansi_0.5.0       highr_0.9        
+## [33] tokenizers_0.2.1  Rcpp_1.0.6        scales_1.1.1      jsonlite_1.7.2   
+## [37] farver_2.1.0      digest_0.6.27     stringi_1.6.2     grid_4.1.0       
+## [41] cli_2.5.0         tools_4.1.0       magrittr_2.0.1    tibble_3.1.2     
+## [45] janeaustenr_0.1.5 crayon_1.4.1      pkgconfig_2.0.3   ellipsis_0.3.2   
+## [49] Matrix_1.3-3      data.table_1.14.0 xml2_1.3.2        rmarkdown_2.8    
+## [53] rstudioapi_0.13   R6_2.5.0          compiler_4.1.0</code></pre>
 </div>
 </div>
 
